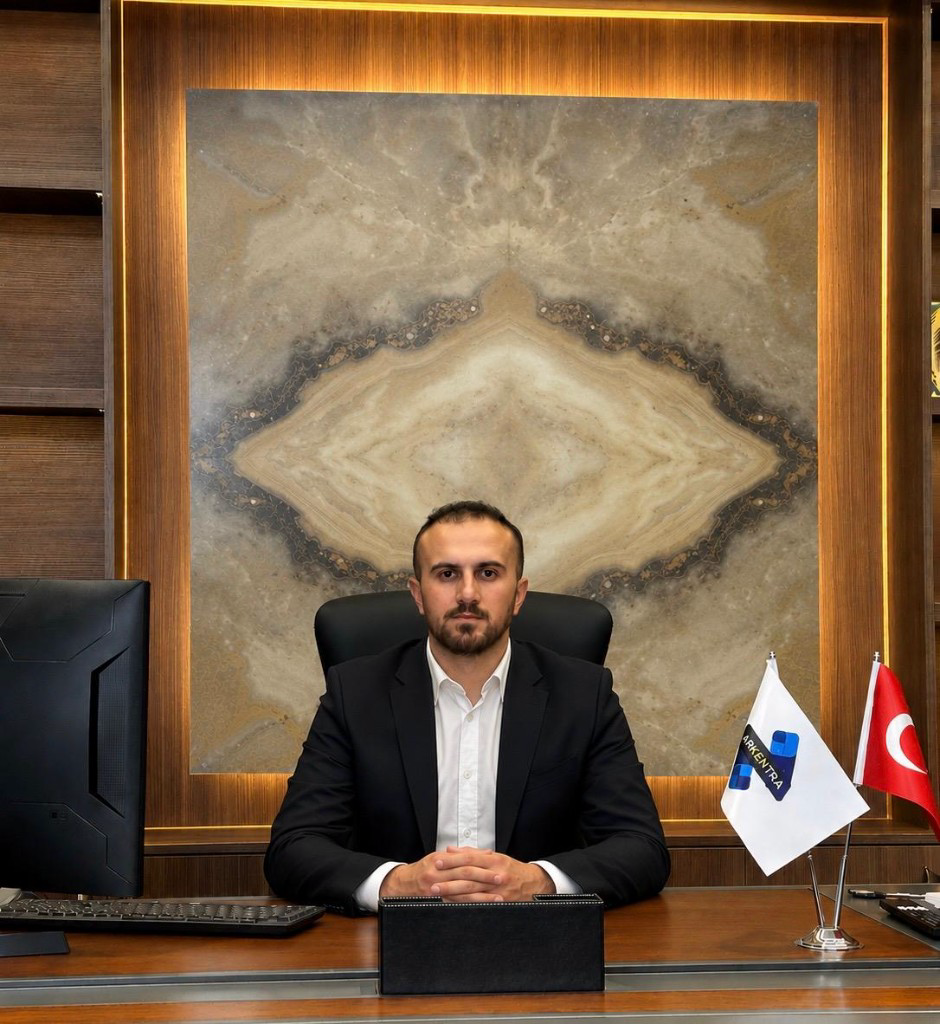
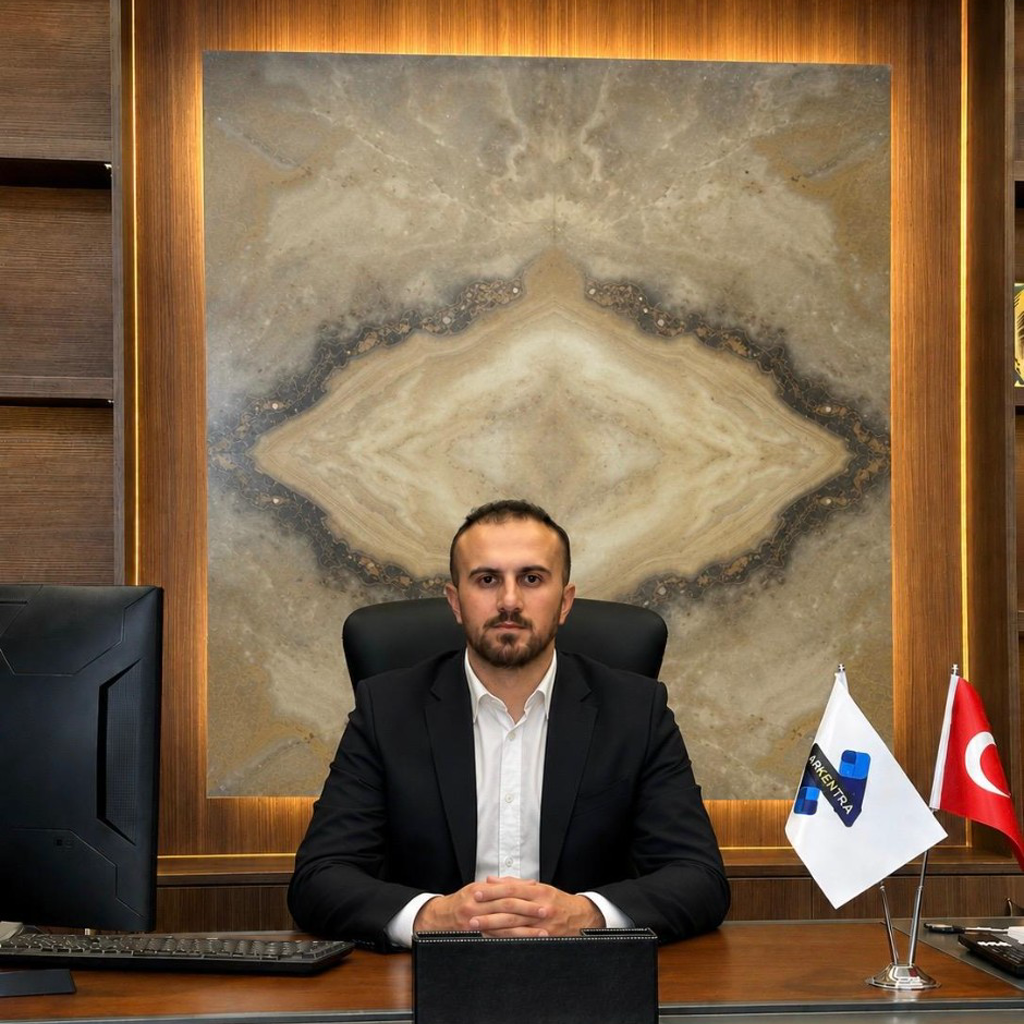
Make founder circles fill completely with square crops and object-cover.
Pre-crop both portraits to 1024x1024 so circular frames have no letterboxing gaps.

diff --git a/app/components/FoundersPreview.tsx b/app/components/FoundersPreview.tsx
@@ -44,7 +44,7 @@ export default function FoundersPreview() {
                   fill
                   sizes="96px"
                   quality={IMAGE_QUALITY}
-                  className="object-contain object-center grayscale group-hover:grayscale-0 transition-all"
+                  className="object-cover object-center grayscale group-hover:grayscale-0 transition-all"
                 />
               </div>
               <div>

diff --git a/app/ekibimiz/page.tsx b/app/ekibimiz/page.tsx
@@ -54,7 +54,7 @@ export default function EkibimizPage() {
                     fill
                     sizes="(max-width: 768px) 160px, 192px"
                     quality={IMAGE_QUALITY}
-                    className="object-contain object-center grayscale"
+                    className="object-cover object-center grayscale"
                   />
                 </div>
                 <h3 className="mt-6 text-lg md:text-xl font-semibold text-gray-900 tracking-tight text-center">